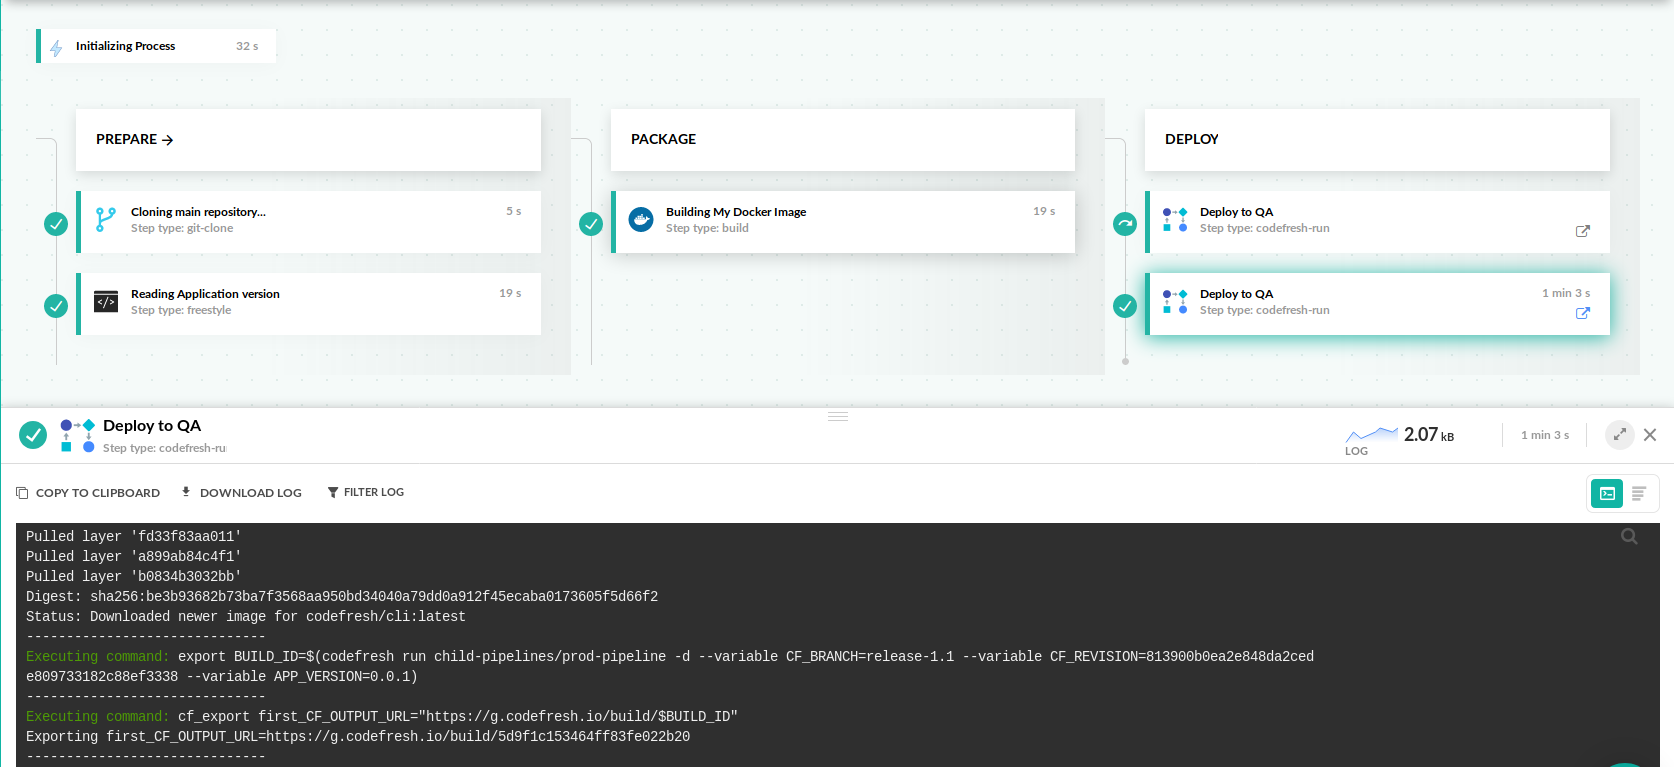
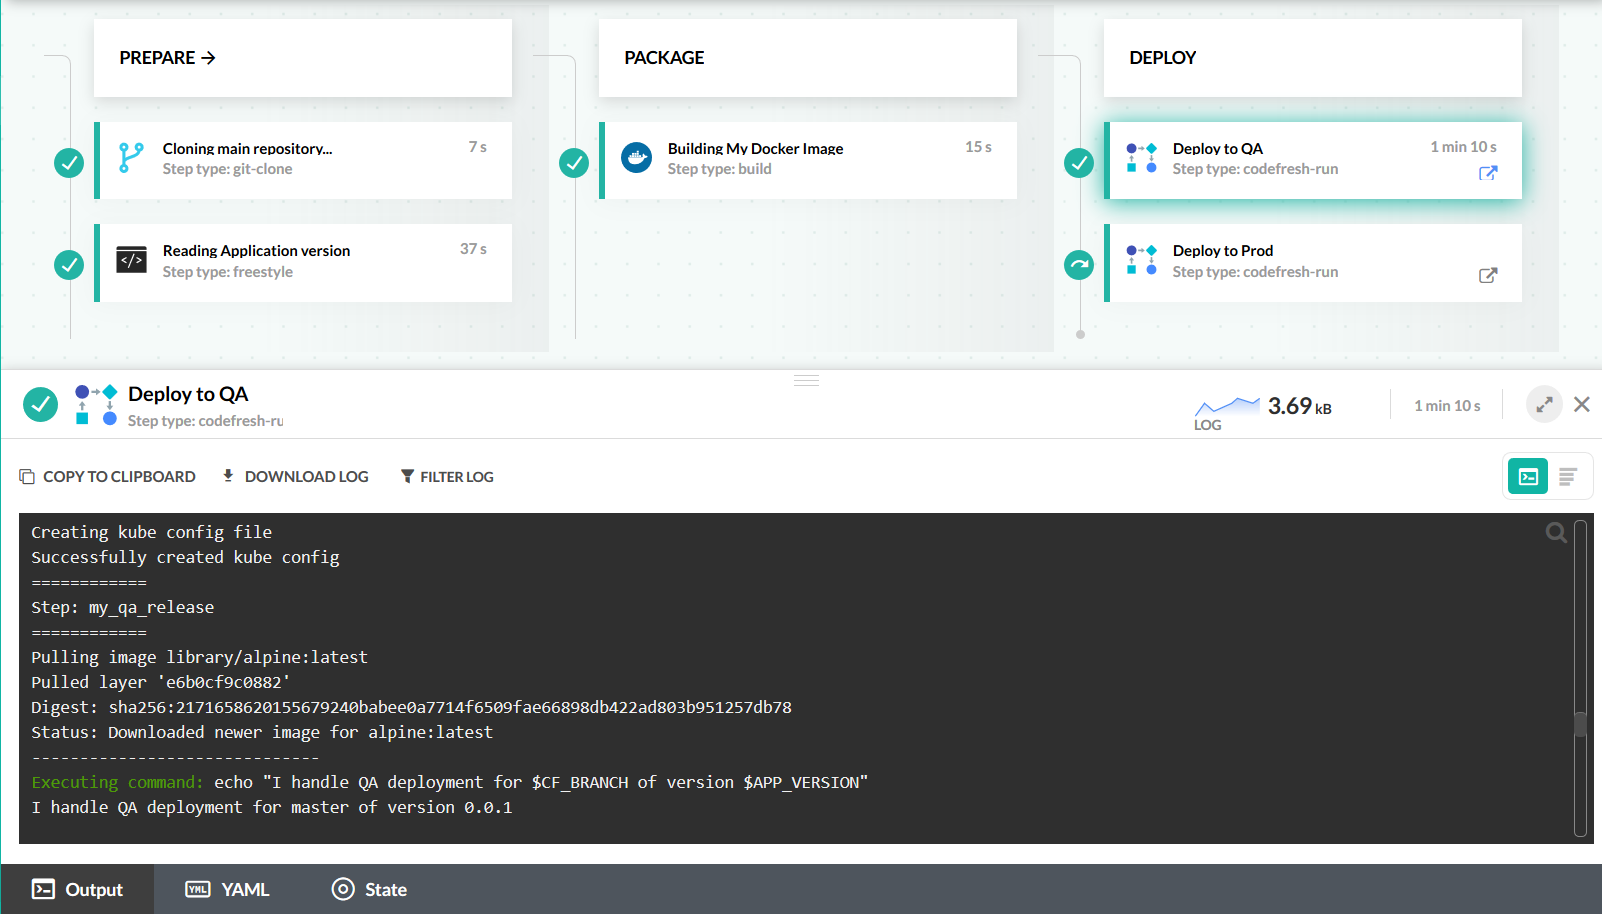
Fixed child pipeline name

diff --git a/_docs/yaml-examples/examples/call-child-pipelines.md b/_docs/yaml-examples/examples/call-child-pipelines.md
@@ -8,16 +8,13 @@ toc: true
 
 In Codefresh you can easily create nested pipelines by calling other pipelines from within an existing pipeline. This is easily accomplished with the [codefresh-run plugin](https://codefresh.io/steps/step/codefresh-run) that allows you to launch another pipeline and optionally wait for its completion.
 
-
-
- 
-{% include image.html 
-lightbox="true" 
-file="/images/examples/nested-pipelines/call-other-pipeline.png" 
-url="/images/examples/nested-pipelines/call-other-pipeline.png" 
+{% include image.html
+lightbox="true"
+file="/images/examples/nested-pipelines/call-other-pipeline.png"
+url="/images/examples/nested-pipelines/call-other-pipeline.png"
 alt="Parent and child pipelines"
 caption="Parent and child pipelines"
-max-width="80%" 
+max-width="80%"
 %}
 
 A very common pattern in Codefresh is to have a parent pipeline responsible for Continuous Integration (packaging code) that calls a child pipeline for Continuous Delivery (taking care of deployment).
@@ -25,7 +22,6 @@ A very common pattern in Codefresh is to have a parent pipeline responsible for 
 ## The example Project
 
 You can see the example project at [https://github.com/codefresh-contrib/call-child-pipeline-sample-app](https://github.com/codefresh-contrib/call-child-pipeline-sample-app). The repository contains a NodeJs app as well as 3 pipelines (one parent and two children).
-
 
 ## Create a pipeline that calls other pipelines
 
@@ -76,7 +72,7 @@ steps:
         only:
           - develop      
   call_prod_pipeline:
-    title: Deploy to QA
+    title: Deploy to Prod
     stage: deploy
     type: codefresh-run
     arguments:
@@ -104,11 +100,7 @@ This pipeline does the following:
 
 The last two steps use [pipeline conditionals]({{site.baseurl}}/docs/codefresh-yaml/conditional-execution-of-steps/) to decide if they will run or not.
 
-
-
-
 ## What to read next
-
 
 * [Codefresh YAML]({{site.baseurl}}/docs/codefresh-yaml/what-is-the-codefresh-yaml/)
 * [Pipeline steps]({{site.baseurl}}/docs/codefresh-yaml/steps/)
